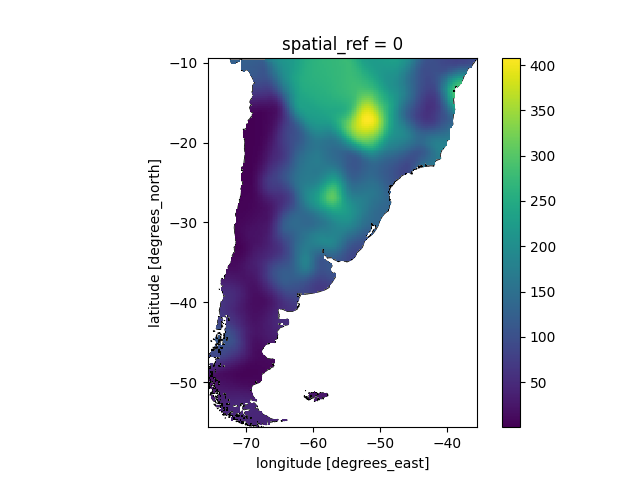
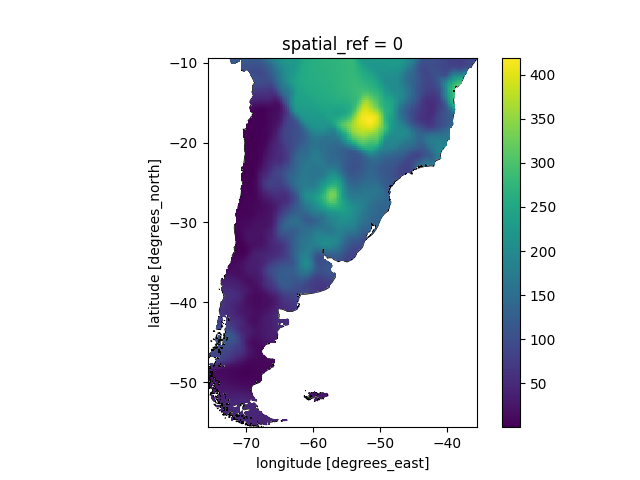
chore: se ajustan los parámetros de configuración

diff --git a/run_2.py b/run_2.py
@@ -27,8 +27,8 @@ setattr(EXTENT, 'xmax', -33.5)
 setattr(EXTENT, 'ymin', -57.0)
 setattr(EXTENT, 'ymax', -7.5)
 
-ROLLING_WINDOW_FILLNA = 9
-ROLLING_WINDOW_SMOOTHING = 9
+ROLLING_WINDOW_FILLNA = 21
+ROLLING_WINDOW_SMOOTHING = 5
 
 EXAMPLE_DATA = './data/example-data.csv'
 EXAMPLE_SHAPE = './data/example-shapefile.shp'
@@ -107,7 +107,7 @@ def main() -> int:
 
     # generar figuras para comparar diferentes valores de ROLLING_WINDOW_FILLNA
     if GEN_COMPARATIVE_PLOTS:
-        for i in [3,5,7,9,11]:
+        for i in [3,9,15,21]:
             # se rellenan los huecos
             raster_1 = raster.fillna(
                 raster.rolling(latitude=i, longitude=i, min_periods=1, center=True).mean())
@@ -127,7 +127,7 @@ def main() -> int:
 
     # generar figuras para comparar diferentes valores de ROLLING_WINDOW_SMOOTHING
     if GEN_COMPARATIVE_PLOTS:
-        for i in [3,5,7,9,11]:
+        for i in [3,5,7,9]:
             # se suaviza el raster
             raster_1 = raster.rolling(latitude=i, longitude=i, min_periods=1, center=True).mean()
             # recortar raster y graficar (raster suavizado)
